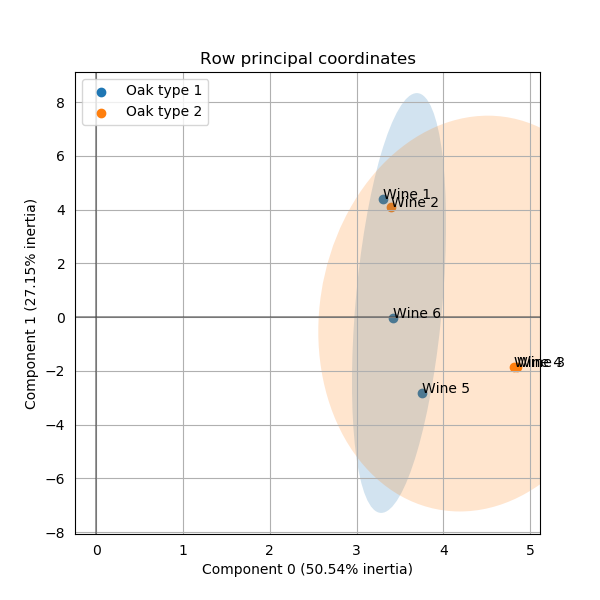
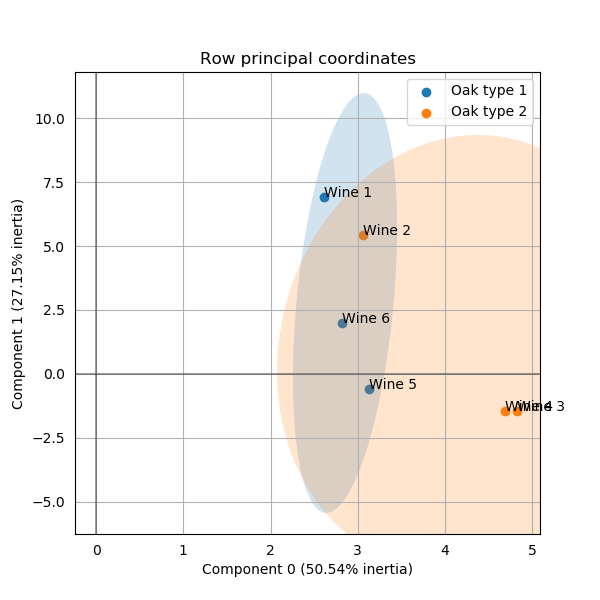
Fix FAMD implementation

diff --git a/prince/famd.py b/prince/famd.py
@@ -23,7 +23,13 @@ class FAMD(mfa.MFA):
         if isinstance(X, np.ndarray):
             X = pd.DataFrame(X)
 
-        # Make one per group per column
-        self.groups = {col: [col] for col in X.columns}
+        num_cols = X.select_dtypes('number').columns.tolist()
+        cat_cols = set(X.columns) - set(num_cols)
+
+        # Make one per variable type
+        self.groups = {
+            'Numerical': num_cols,
+            'Categorical': cat_cols
+        }
 
         return super().fit(X)

diff --git a/prince/__version__.py b/prince/__version__.py
@@ -1,3 +1,3 @@
-VERSION = (0, 4, 4)
+VERSION = (0, 4, 5)
 
 __version__ = '.'.join(map(str, VERSION))

diff --git a/README.md b/README.md
@@ -597,7 +597,7 @@ Now we can fit an `FAMD`.
 ...     engine='auto',
 ...     random_state=42
 ... )
->>> famd = mfa.fit(X)
+>>> famd = mfa.fit(X.drop('Oak type', axis='columns'))  # No need for 'Oak type'
 
 ```
 
@@ -606,16 +606,16 @@ The `FAMD` inherits from the `MFA` class, which entails that you have access to 
 ```python
 >>> famd.row_coordinates(X)
               0         1
-Wine 1 3.298378  4.406210
-Wine 2 3.390446  4.094591
-Wine 3 4.841360 -1.840070
-Wine 4 4.816948 -1.852892
-Wine 5 3.748474 -2.810270
-Wine 6 3.416604 -0.014014
+Wine 1 2.614081  6.928125
+Wine 2 3.061583  5.414429
+Wine 3 4.826052 -1.454769
+Wine 4 4.693283 -1.452513
+Wine 5 3.129545 -0.605032
+Wine 6 2.819369  1.992571
 
 ```
 
-Just like for the `PCA` you can plot the row coordinates with the `plot_row_coordinates` method.
+Just like for the `MFA` you can plot the row coordinates with the `plot_row_coordinates` method.
 
 ```python
 >>> ax = famd.plot_row_coordinates(
